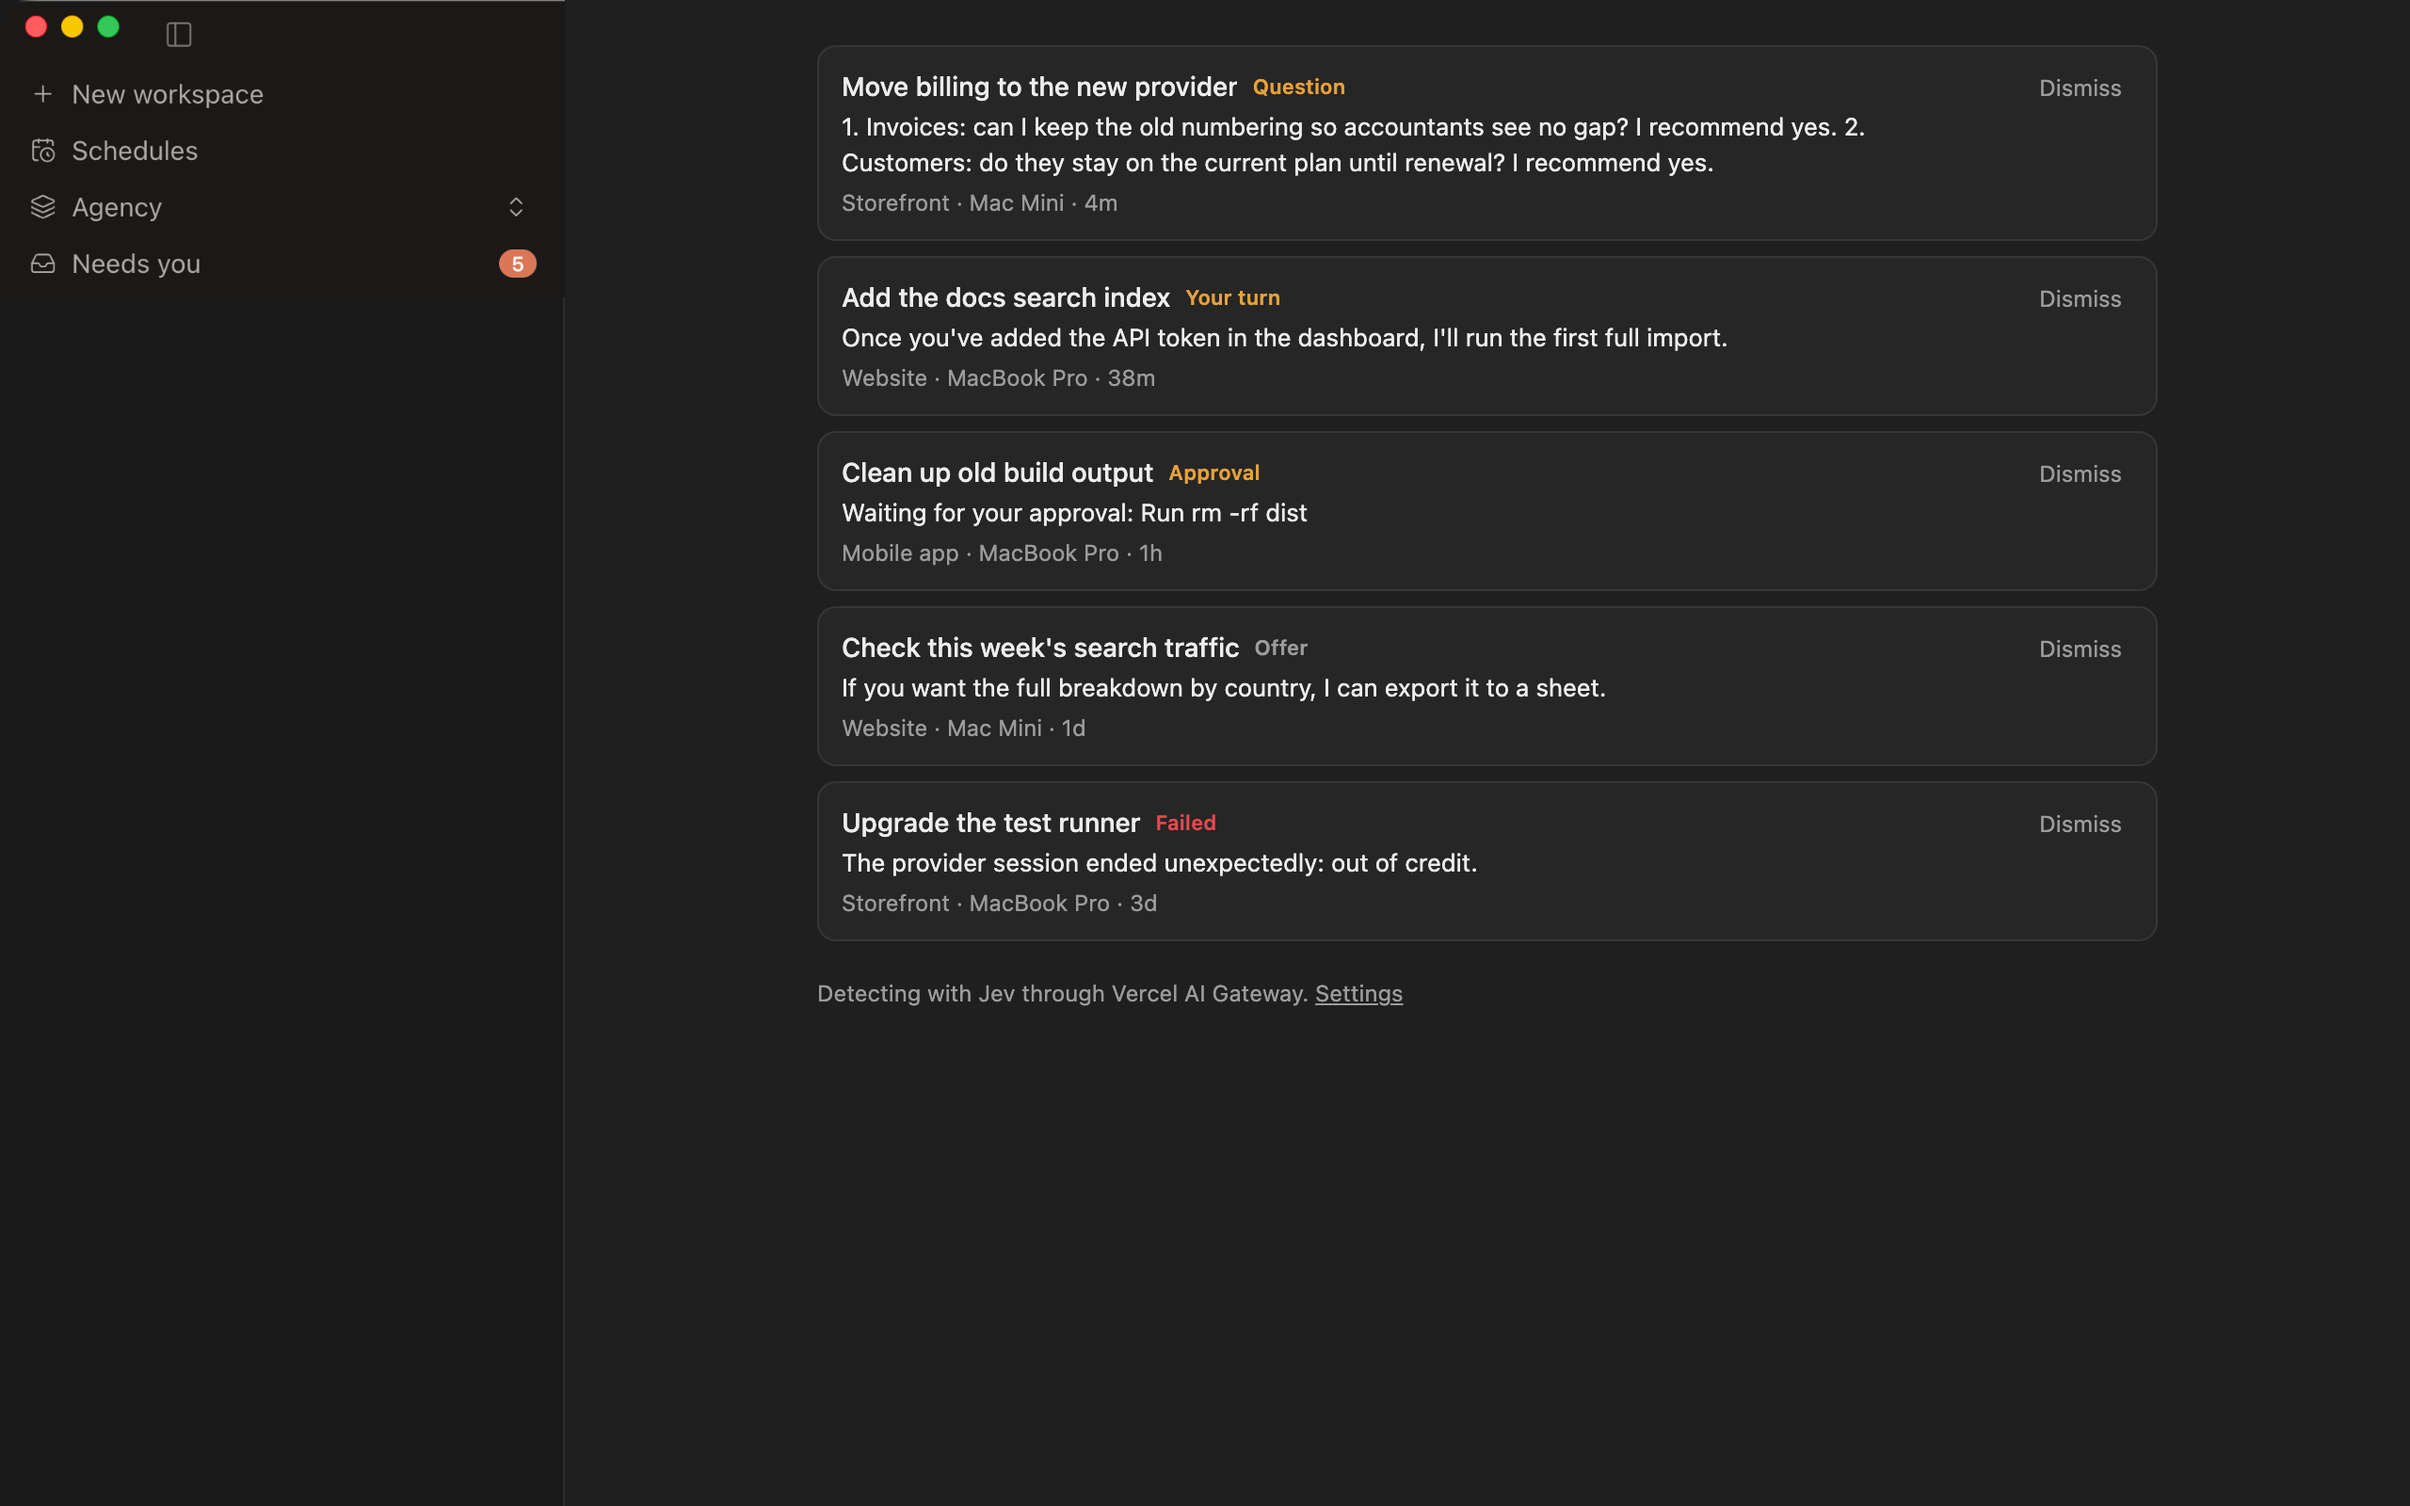
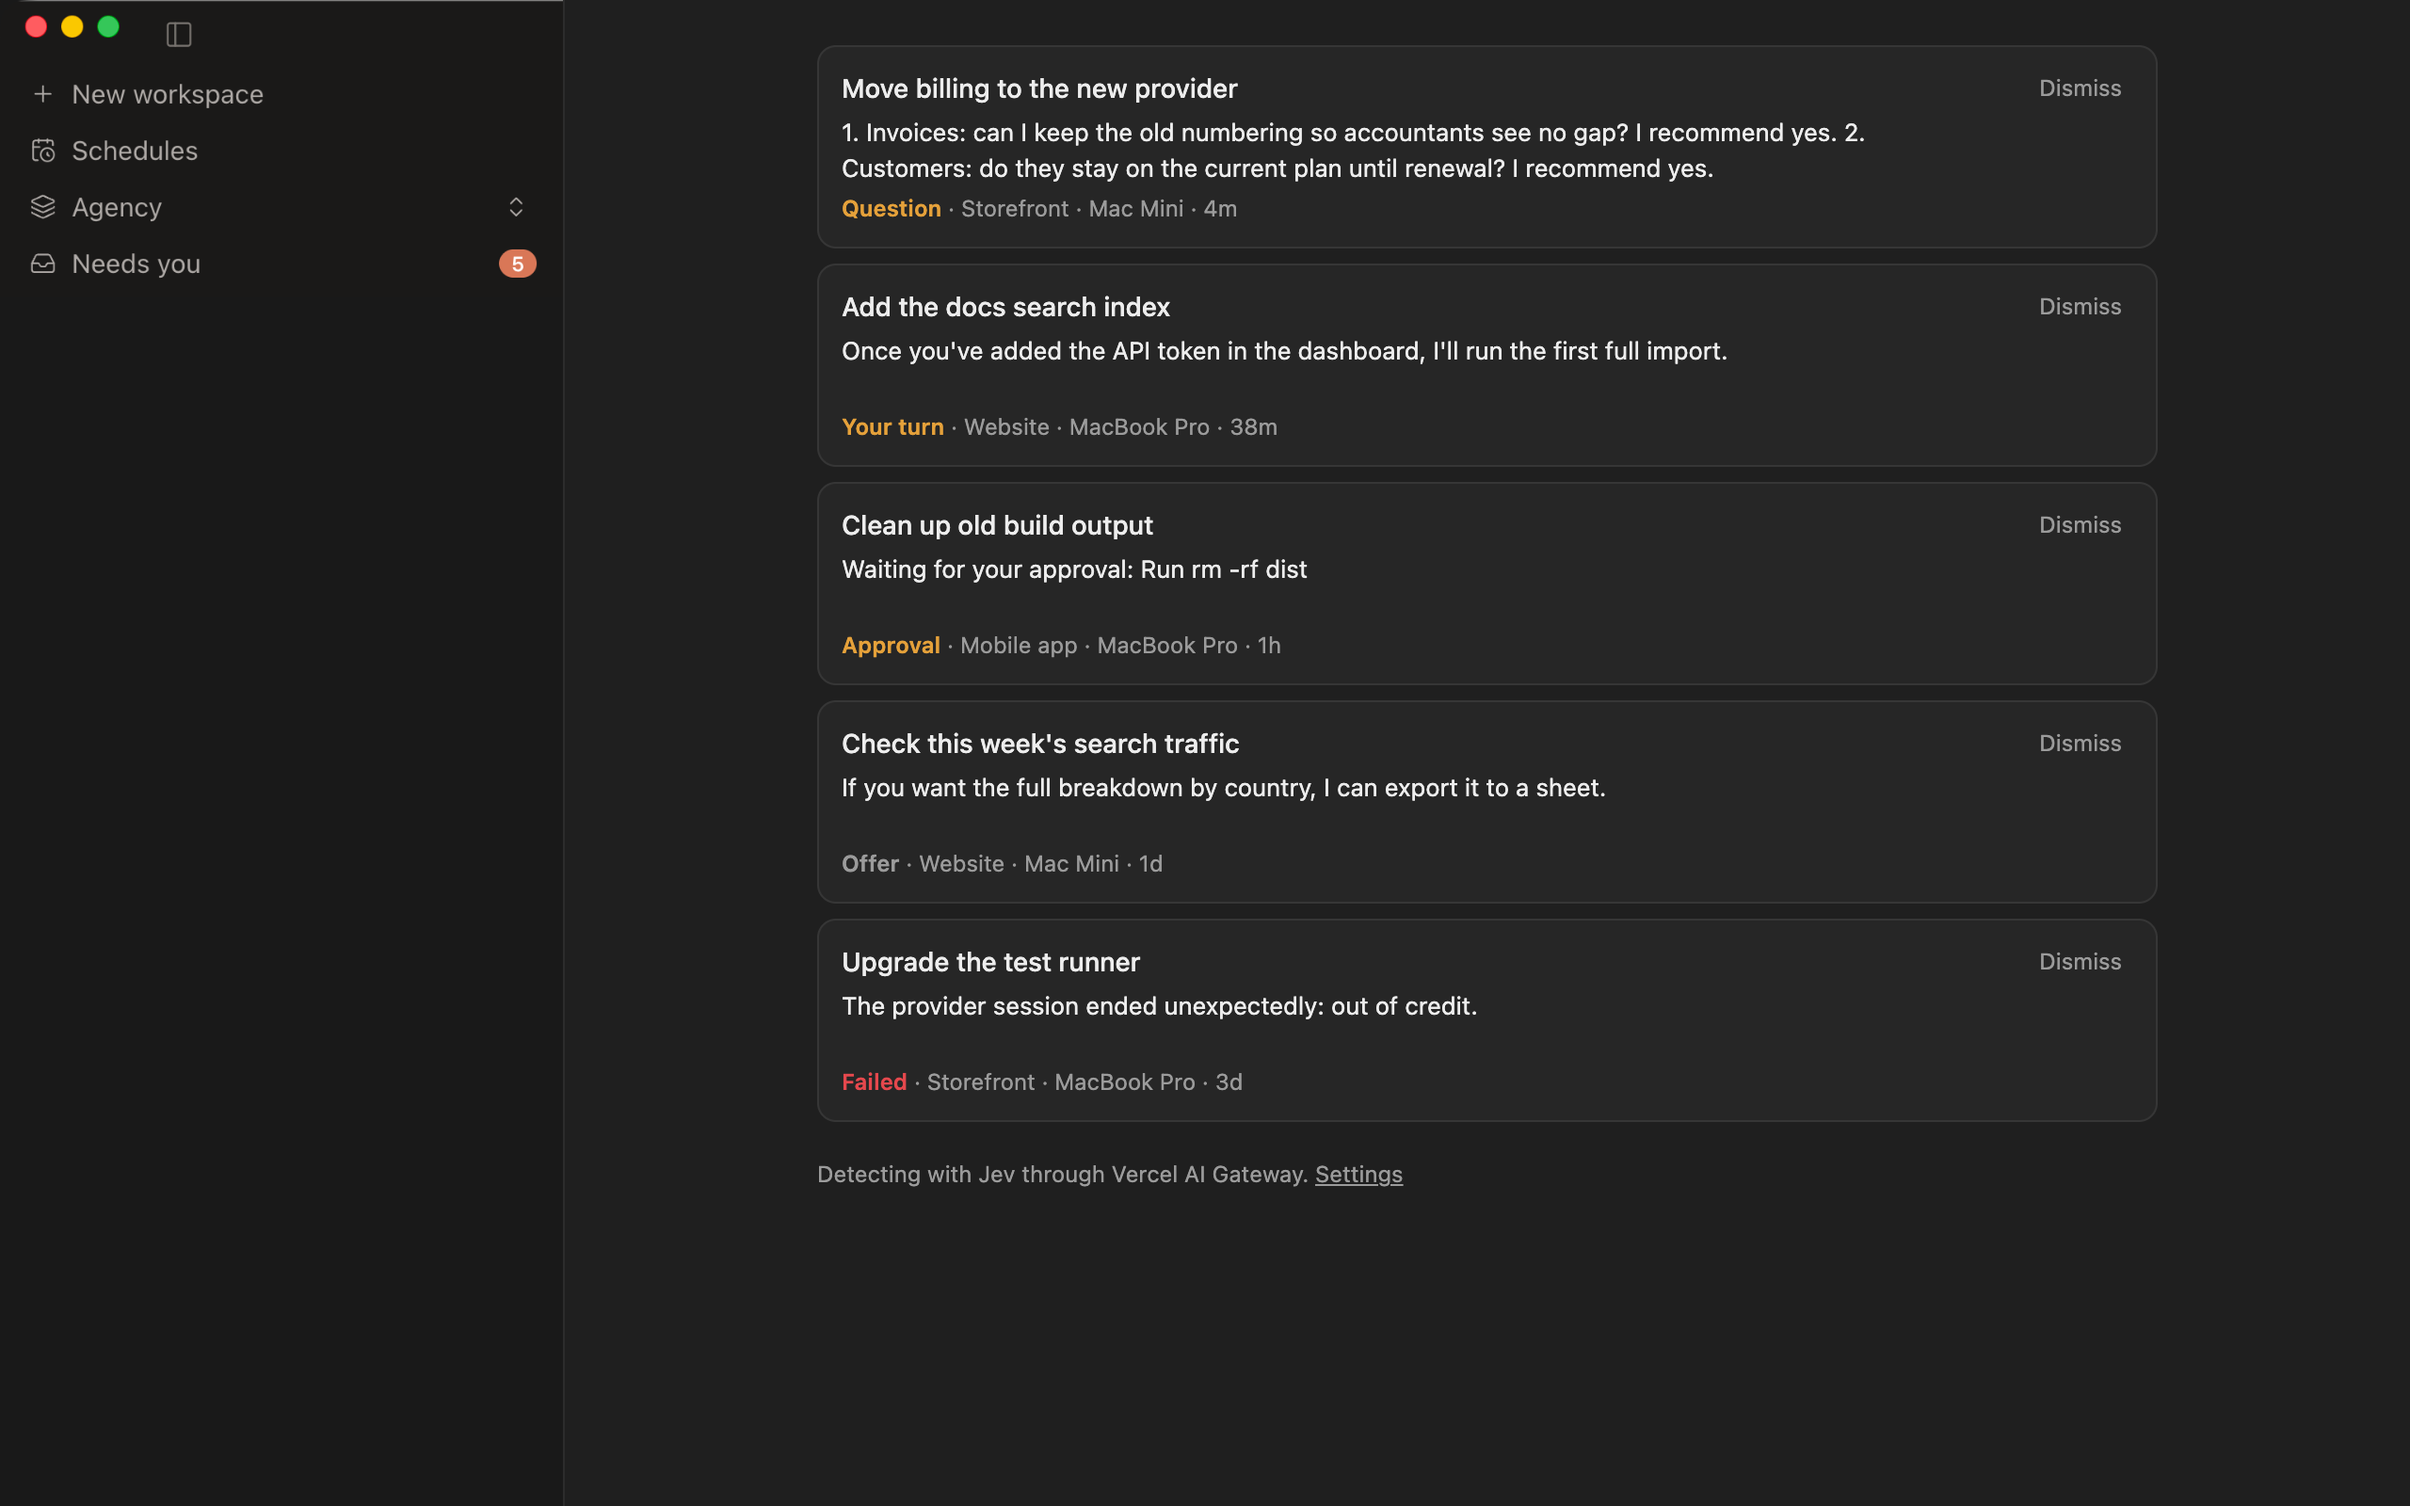
Every row in the list is the same height
The row grew with the excerpt, and the tag sat wherever the title ended. Rows
now have one title line, a two-line preview whose space is always reserved, and
the tag at the start of the meta line.

diff --git a/client/screen.tsx b/client/screen.tsx
@@ -16,6 +16,13 @@ const TAGS: Record<ItemKind, string> = {
   failed: "Failed",
 };
 
+// Every row is the same height whatever it says, so the preview's space is reserved even when
+// the agent only wrote a few words.
+const TITLE_LINE = 20;
+const PREVIEW_LINE = 19;
+const PREVIEW_LINES = 2;
+const META_LINE = 16;
+
 export interface ScreenOptions {
   openSettings(): void;
 }
@@ -129,25 +136,40 @@ function Row(props: {
           backgroundColor: pressed ? colors.surface2 : "transparent",
         })}
       >
-        <View style={{ flexDirection: "row", alignItems: "center", gap: 8 }}>
-          <Text
-            numberOfLines={1}
-            style={{ flexShrink: 1, color: colors.foreground, fontSize: 14, fontWeight: "500" }}
-          >
-            {item.title}
-          </Text>
-          <Text
-            numberOfLines={1}
-            style={{ flexShrink: 0, color: tagColor, fontSize: 11, fontWeight: "600" }}
-          >
-            {TAGS[item.kind]}
-          </Text>
-        </View>
-        <Text numberOfLines={3} style={{ color: colors.foreground, fontSize: 13, lineHeight: 19 }}>
+        <Text
+          numberOfLines={1}
+          style={{
+            color: colors.foreground,
+            fontSize: 14,
+            fontWeight: "500",
+            lineHeight: TITLE_LINE,
+            height: TITLE_LINE,
+          }}
+        >
+          {item.title}
+        </Text>
+        <Text
+          numberOfLines={PREVIEW_LINES}
+          style={{
+            color: colors.foreground,
+            fontSize: 13,
+            lineHeight: PREVIEW_LINE,
+            height: PREVIEW_LINE * PREVIEW_LINES,
+          }}
+        >
           {item.excerpt}
         </Text>
-        <Text numberOfLines={1} style={{ color: colors.foregroundMuted, fontSize: 12 }}>
-          {where}
+        <Text
+          numberOfLines={1}
+          style={{
+            color: colors.foregroundMuted,
+            fontSize: 12,
+            lineHeight: META_LINE,
+            height: META_LINE,
+          }}
+        >
+          <Text style={{ color: tagColor, fontWeight: "600" }}>{TAGS[item.kind]}</Text>
+          {` · ${where}`}
         </Text>
       </Pressable>
       <Pressable
